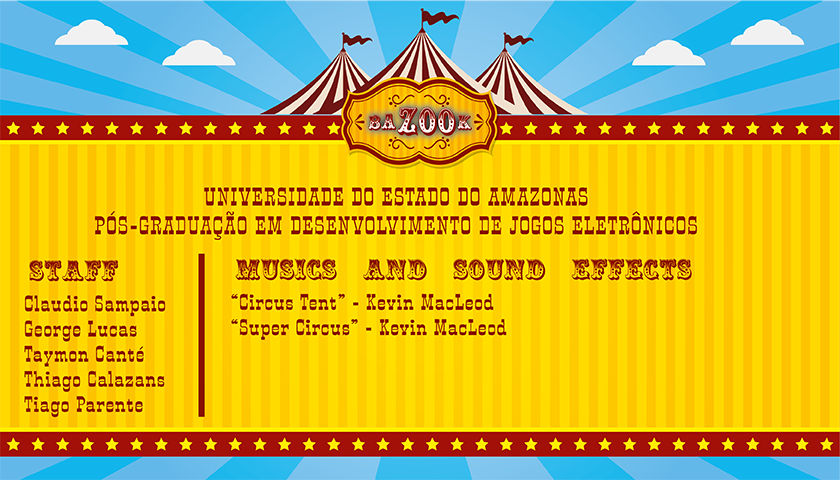
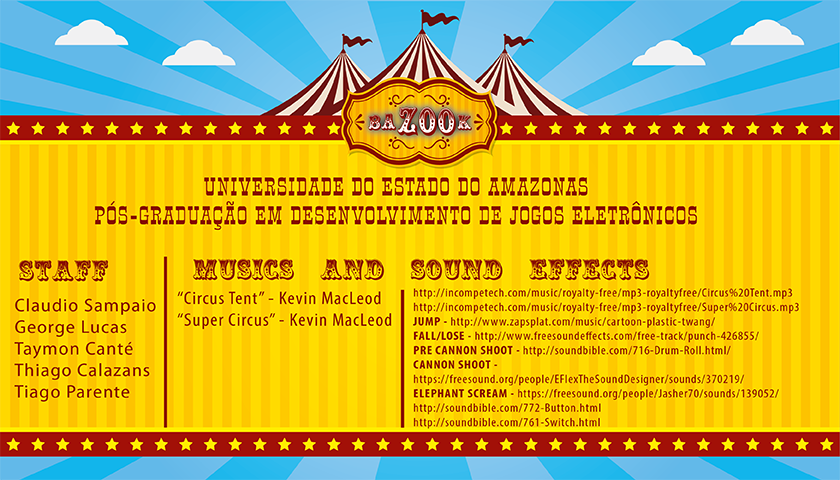
ajuste som

Changed region(s): [[0.0, 0.5312, 0.9595, 0.9062], [0.0929, 0.3438, 0.8357, 0.5], [0.3095, 0.0, 0.7119, 0.25]]

diff --git a/js/functions.js b/js/functions.js
@@ -67,7 +67,7 @@ FunctionsGame.prototype.update = function() {
 function gotoGame(item) {
     this.button_click = this.game.add.music = this.add.audio('button_click');        
     this.button_click.play();
-    this.game.time.events.add(Phaser.Timer.SECOND * 1, startGame, this);
+    this.game.time.events.add(Phaser.Timer.SECOND * 0.2, startGame, this);
 };
 
 function startGame() {
@@ -89,7 +89,7 @@ function gotoMenu(item) {
     this.button_click = this.game.add.music = this.add.audio('button_click');
     if (this.game.state.current !== "splash") this.button_click.play();    
     game.paused = false;
-    this.game.time.events.add(Phaser.Timer.SECOND * 1, startMenu, this);
+    this.game.time.events.add(Phaser.Timer.SECOND * 0.2, startMenu, this);
 };
 
 function startMenu() {
@@ -119,8 +119,11 @@ function setarPause(item) {
         this.pause.loadTexture('pause');
     }
     else {
-//    while (this.button_switch.isPlaying){}
-        game.paused = true;
-        this.pause.loadTexture('play');
+        this.game.time.events.add(Phaser.Timer.SECOND * 0.2, startPause, this);
     }        
+};
+
+function startPause() {
+    this.pause.loadTexture('play');
+    game.paused = true;
 };

diff --git a/js/game.js b/js/game.js
@@ -14,7 +14,7 @@ GameState.prototype.create = function () {
     this.PLAYER_VEL_Y = -800;
     this.PLAYER_POSITION = 400;
     this.PLATFORM_SPEED = 300;
-//    this.CENARIO_SPEED = -400;
+    this.SCORE_GETHARD = 4; //A CADA x pulos a velocidade aumenta
     
 //variáveis
     this.GAME_STATUS = 0; //| 0: pré-partida | 1: lançando player | 2: player lançado | -1: game over | 
@@ -255,7 +255,7 @@ GameState.prototype.platformCollision = function (player, platform) {
         this.player.frame = 1;
         this.game.add.tween(this.player).to({angle:360}, 500, Phaser.Easing.Quadratic.Out).start();
         
-        if (game.global.score % 4 == 0 ){
+        if (game.global.score % this.SCORE_GETHARD == 0 ){
             this.elefante = this.game.add.music = this.add.audio('elefante');        
             this.elefante.play();   
             this.PLATFORM_SPEED = this.PLATFORM_SPEED * 1.2;

diff --git a/js/splash.js b/js/splash.js
@@ -4,6 +4,12 @@ var SplashState = function(game) {};
 
 
 SplashState.prototype.preload = function() {
+    if (game.global.music != 1){
+        game.global.music = 1;
+        game.sound.stopAll();    
+        this.music_menu = this.game.add.music = this.add.audio('music_menu');        
+        this.music_menu.loopFull();        
+    }
 };
 
 SplashState.prototype.create = function() {
